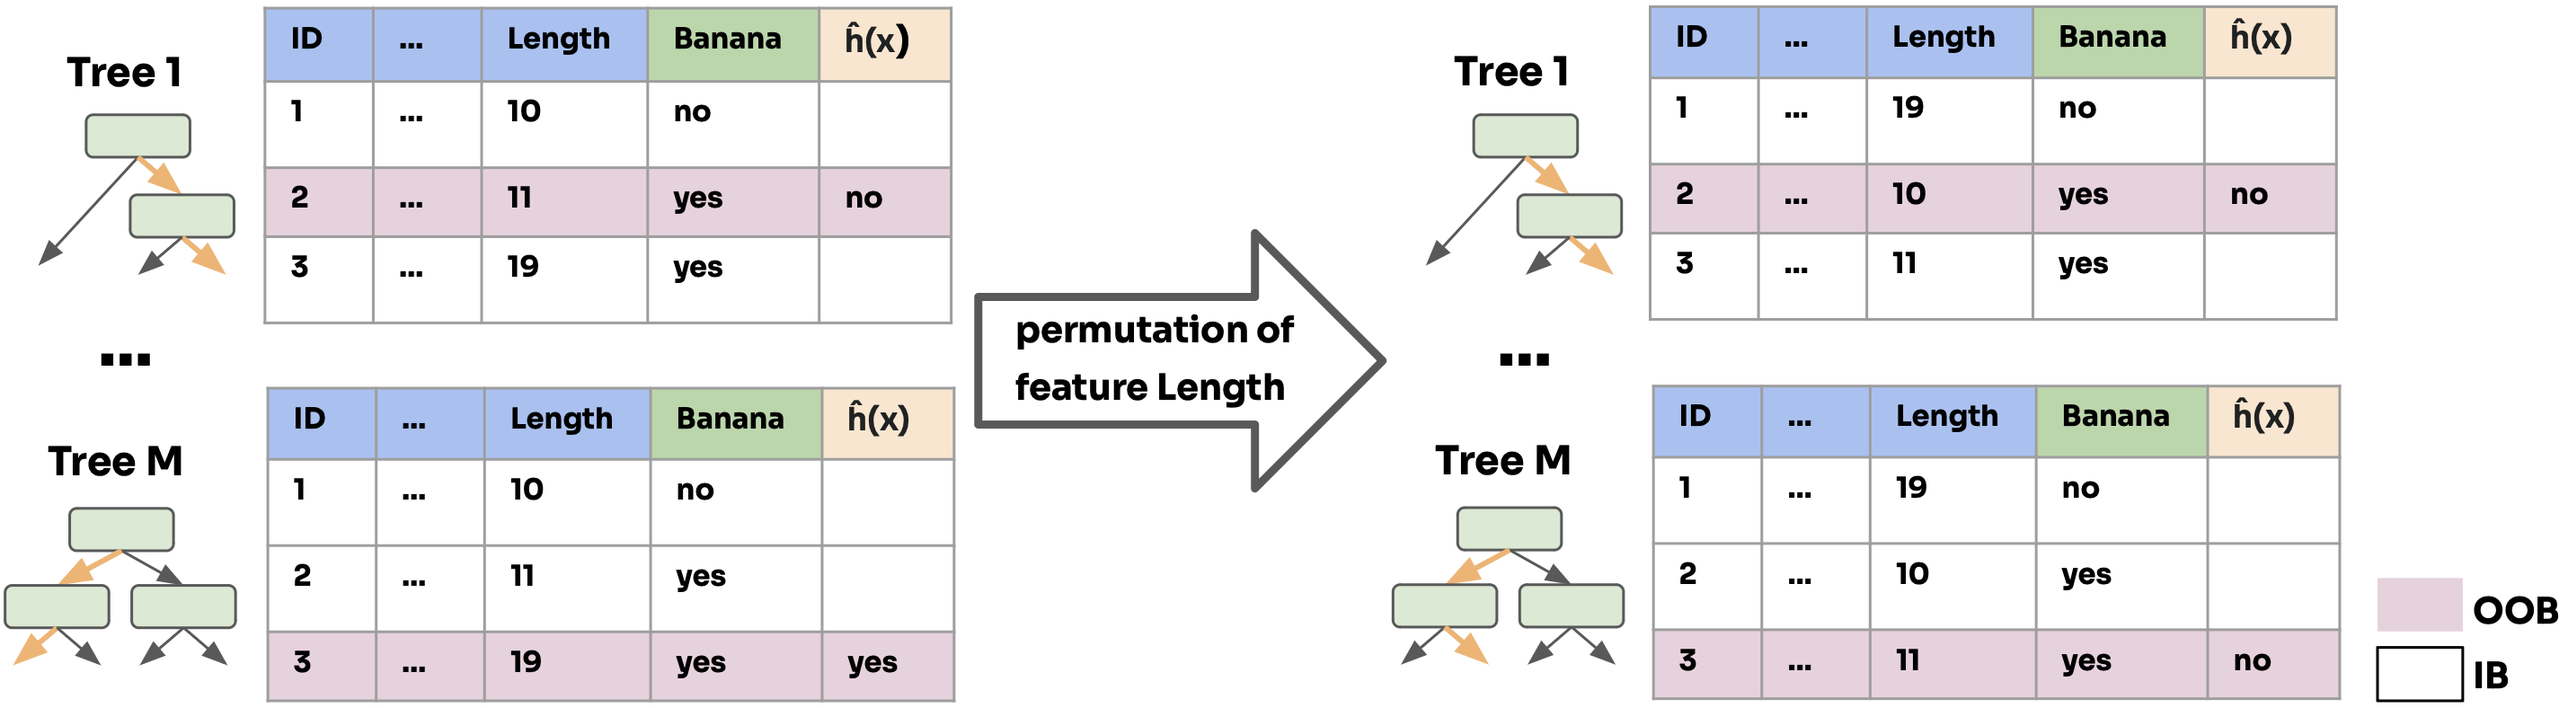
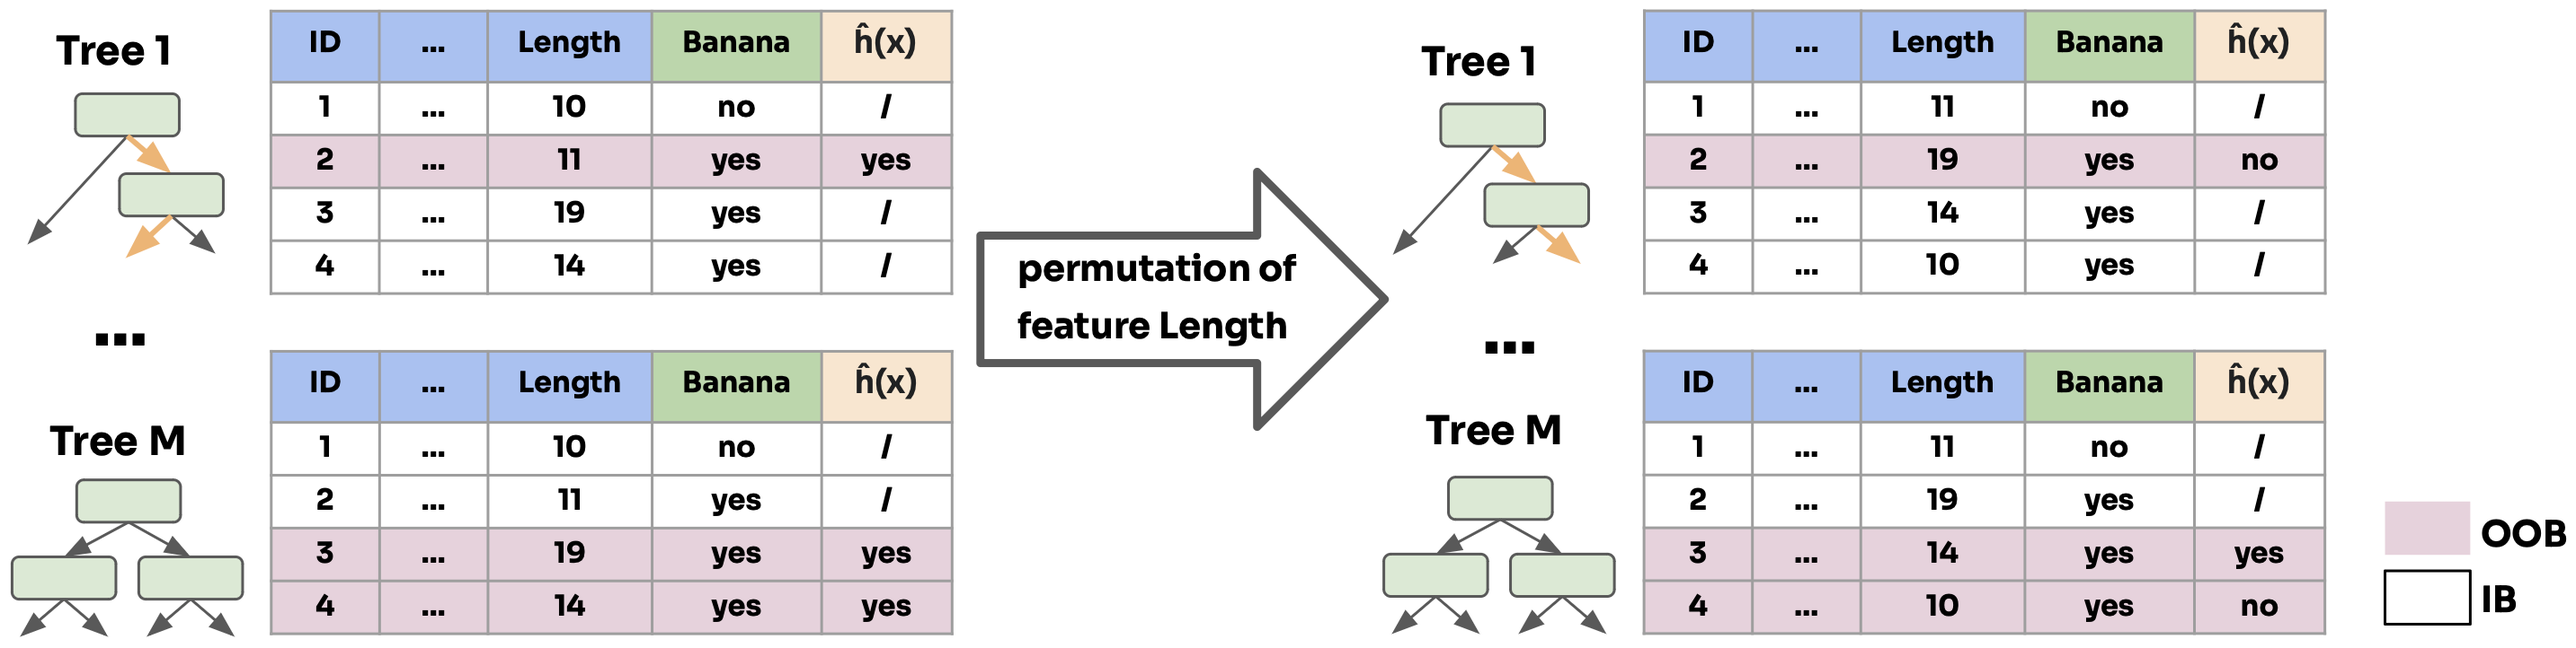
permutation importance

diff --git a/slides/forests/slides-forests-featureimportance.tex b/slides/forests/slides-forests-featureimportance.tex
@@ -23,29 +23,28 @@
 
 \begin{vbframe}{Feature Importance}
 
-RFs improve accuracy by aggregating multiple decision trees but \textbf{lose interpretability} compared to a single tree. Evaluating individual feature contributions in RFs is challenging.
-
-\textbf{Feature Importance:}
+RFs improve accuracy by aggregating multiple decision trees but \textbf{lose interpretability} compared to a single tree. \textbf{Feature importance} helps rectify lost interpretability!
+\\
 \begin{itemize}
-\item Feature importance helps rectify lost interpretability!
-\item \textbf{Basic idea}: by how much would the performance of the RF \textit{decrease} if a specific feature were removed or rendered useless?
+  \item We can obtain a $\widehat{\mathrm{GE}}$ of a RF by its performance on OOB samples.
+  \item Measuring how much the performance \textit{decreases} if a specific feature were removed or rendered useless is called \textbf{permutation importance}.
 \end{itemize}
 
+\vspace{-1ex}
 \begin{center}
 % SOURCE: https://docs.google.com/presentation/d/1lDW9HEeNEGwJR1tmhAiOhySibzl6tXLxqePsKtpbb_M/edit#slide=id.g2ddcfb537bb_0_33
-\includegraphics[width=0.75\textwidth]{figure_man/forest-fimp_idea.png}
+\includegraphics[width=0.8\textwidth]{figure_man/forest-fimp_idea.png}
 \end{center}
 
 \end{vbframe}
 
 \begin{vbframe}{Permutation importance}
-%TODO visualization
 
-\includegraphics[width = 1\textwidth]{figure_man/forest-permutation-imp.png}
-\vspace{-2ex}
+\includegraphics[width = 1.1\textwidth]{figure_man/forest-permutation-imp.png}
+\vspace{-4ex}
 \begin{algorithm}[H]
-\scriptsize
-\caption*{\small{Measure based on permutations of OOB obs.}}
+\small
+\caption*{Measure based on permutations of OOB obs.}
 \begin{algorithmic}[1]
   \State Calculate $\widehat{\mathrm{GE}}_{\text{OOB}}$ using set-based metric $\rho$.
   \For{features $x_j$, $j = 1$ to $p$}
@@ -57,7 +56,7 @@ RFs improve accuracy by aggregating multiple decision trees but \textbf{lose int
   \EndFor
 \end{algorithmic}
 \end{algorithm}
-\vspace{-2ex}
+\vspace{-3ex}
 \end{vbframe}
 
 \begin{vbframe}{Impurity importance}
